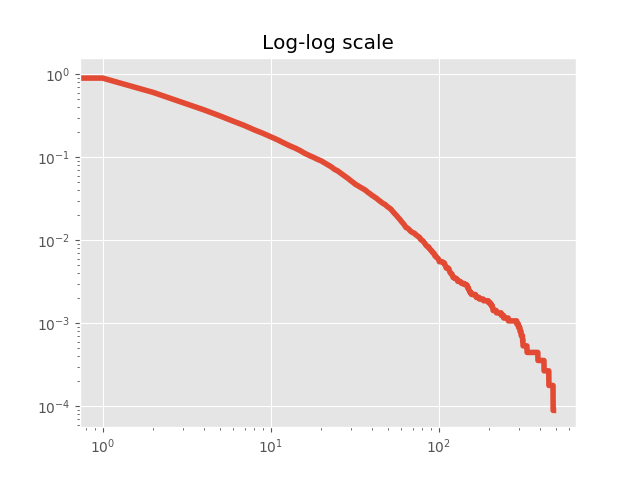
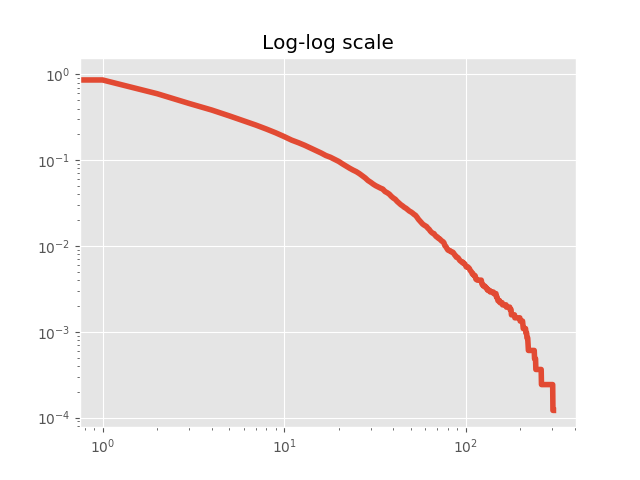
genre purge

diff --git a/na_spotify_project/scripts/basic_stats.py b/na_spotify_project/scripts/basic_stats.py
@@ -5,6 +5,7 @@ import collections, powerlaw, os
 from scipy.stats import linregress
 
 # variables
+genres = ['house', 'pop', 'hip hop', 'rap', 'classical', 'rock', 'tech', 'indie', 'metal', 'edm', 'step', 'elec', 'step', 'jazz']
 
 def read_pickle_graph():
     """
@@ -87,13 +88,21 @@ def prune_network(graph_object, min_degree = 1):
     """
     Given graph prunes nodes with less than given degree
     """
-    nodes_to_prune = []
+    nodes_to_prune = set()
     for node in graph_object.nodes(data = True):
+        genre_set = set()
         try:
             if (graph_object.degree(node[0]) <= min_degree) or len(node[1]['genres']) == 0:
-                nodes_to_prune.append(node[0])
+                nodes_to_prune.add(node[0])
+            else:
+                for possible_genre in genres:
+                    for genre_in_node in node[1]['genres']:
+                        if possible_genre in genre_in_node:
+                            genre_set.add(possible_genre)
+                if len(genre_set) == 0:
+                        nodes_to_prune.add(node[0])
         except KeyError:
-            nodes_to_prune.append(node[0])
+            nodes_to_prune.add(node[0])
 
     for node in nodes_to_prune:
         graph_object.remove_node(node)
